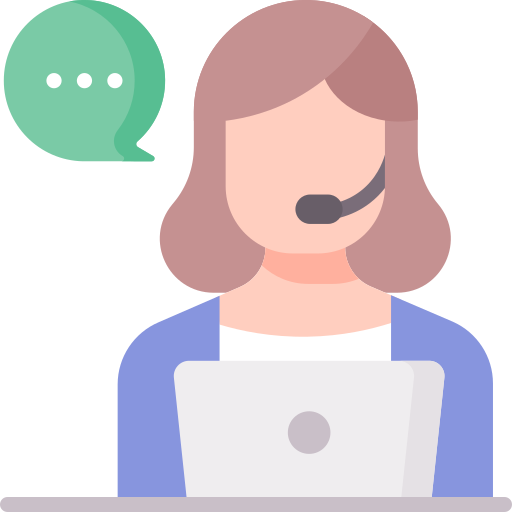
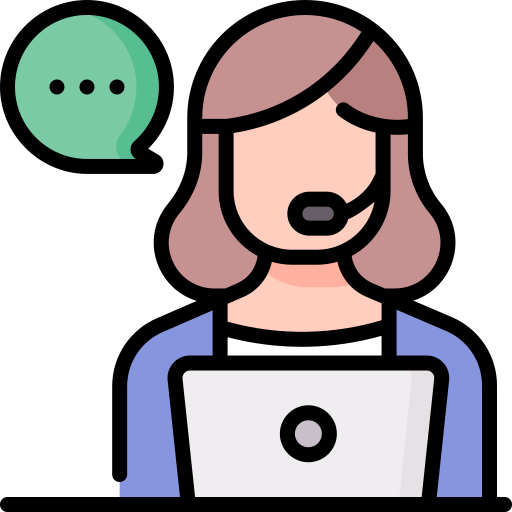
'keerthi'

diff --git a/src/Dashboard/Dashboard.css b/src/Dashboard/Dashboard.css
@@ -226,8 +226,8 @@ background: linear-gradient(95deg,
   font-family: sans-serif;
 }
 .nav-img{
-  width: 30px;
-  height: 30px;
+  width: 31px;
+  height: 31px;
 }
 .nav-link:hover,
 .link-active {
